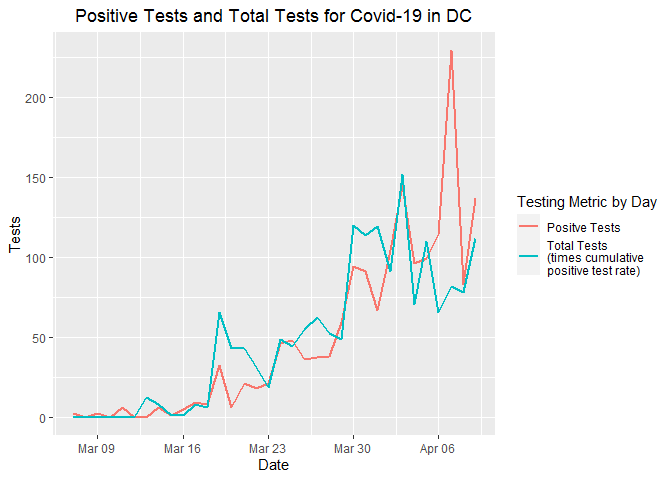
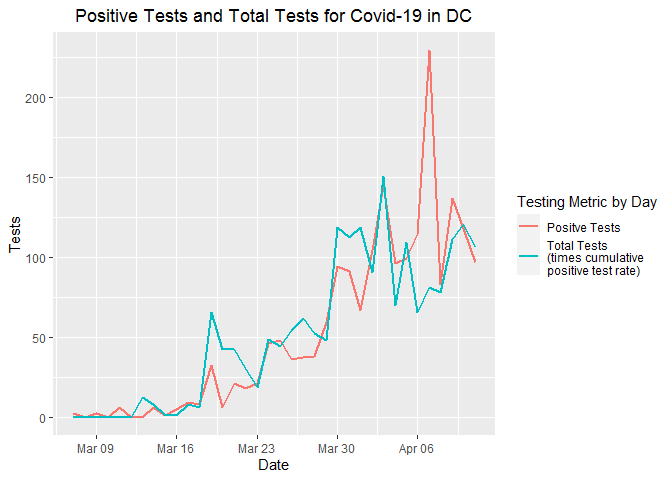
Update with 10-11 April data

diff --git a/Markdown/Testing_Results_Lag.md b/Markdown/Testing_Results_Lag.md
@@ -3,44 +3,44 @@ Lag in DC Test Results
 
 ### Postive Covid-19 Results in DC Lag by About Four Days
 
-10 April, 2020
+12 April, 2020
 
 The below plot shows the number of Positive Tests in red and the number
 of New Tests (multiplied by the positive test rate) in blue. Although
 the numbers tracked pretty well early on in testing, they have diverged
-recently. The correlation coefficient is currently 0.8044366.
+recently. The correlation coefficient is currently 0.8180627.
 
 ![](Testing_Results_Lag_files/figure-gfm/same_day-1.png)<!-- -->
 
 The below plot shows the number of Positive Tests in red compared to the
 number of New Tests four days ago (times the cumulative positive test
 rate) in blue. These numbers track much better, with a current
-correlation coefficient of 0.9247856.
+correlation coefficient of 0.9223203.
 
 ![](Testing_Results_Lag_files/figure-gfm/lag_4-1.png)<!-- -->
 
 Here is the correlation matrix for those interested in such a thing.
 
     ##             Test_New   Pos_New Test_Lag_1 Test_Lag_2 Test_Lag_3 Test_Lag_4
-    ## Test_New   1.0000000 0.8044366  0.7895463  0.8331691  0.7154886  0.7572864
-    ## Pos_New    0.8044366 1.0000000  0.7077803  0.8070302  0.7686444  0.9247856
-    ## Test_Lag_1 0.7895463 0.7077803  1.0000000  0.7951094  0.8356549  0.7248161
-    ## Test_Lag_2 0.8331691 0.8070302  0.7951094  1.0000000  0.7969671  0.8382720
-    ## Test_Lag_3 0.7154886 0.7686444  0.8356549  0.7969671  1.0000000  0.8002385
-    ## Test_Lag_4 0.7572864 0.9247856  0.7248161  0.8382720  0.8002385  1.0000000
-    ## Test_Lag_5 0.6663326 0.7581325  0.7454738  0.7298300  0.8422834  0.8134102
-    ## Test_Lag_6 0.7263917 0.8518991  0.6661792  0.7463855  0.7298315  0.8441130
-    ## Test_Lag_7 0.6626945 0.8262093  0.7203636  0.7017611  0.7824712  0.7885645
+    ## Test_New   1.0000000 0.8180627  0.8129040  0.8390431  0.7291386  0.7603697
+    ## Pos_New    0.8180627 1.0000000  0.7272474  0.8115591  0.7796381  0.9223203
+    ## Test_Lag_1 0.8129040 0.7272474  1.0000000  0.8104692  0.8365950  0.7309178
+    ## Test_Lag_2 0.8390431 0.8115591  0.8104692  1.0000000  0.8026037  0.8427214
+    ## Test_Lag_3 0.7291386 0.7796381  0.8365950  0.8026037  1.0000000  0.8065306
+    ## Test_Lag_4 0.7603697 0.9223203  0.7309178  0.8427214  0.8065306  1.0000000
+    ## Test_Lag_5 0.6954809 0.7738058  0.7595599  0.7308147  0.8440853  0.8070948
+    ## Test_Lag_6 0.7443372 0.8509438  0.6997910  0.7691501  0.7381403  0.8457218
+    ## Test_Lag_7 0.6976197 0.8129254  0.7371107  0.6818008  0.7567267  0.7415686
     ##            Test_Lag_5 Test_Lag_6 Test_Lag_7
-    ## Test_New    0.6663326  0.7263917  0.6626945
-    ## Pos_New     0.7581325  0.8518991  0.8262093
-    ## Test_Lag_1  0.7454738  0.6661792  0.7203636
-    ## Test_Lag_2  0.7298300  0.7463855  0.7017611
-    ## Test_Lag_3  0.8422834  0.7298315  0.7824712
-    ## Test_Lag_4  0.8134102  0.8441130  0.7885645
-    ## Test_Lag_5  1.0000000  0.8181544  0.8460233
-    ## Test_Lag_6  0.8181544  1.0000000  0.8688375
-    ## Test_Lag_7  0.8460233  0.8688375  1.0000000
+    ## Test_New    0.6954809  0.7443372  0.6976197
+    ## Pos_New     0.7738058  0.8509438  0.8129254
+    ## Test_Lag_1  0.7595599  0.6997910  0.7371107
+    ## Test_Lag_2  0.7308147  0.7691501  0.6818008
+    ## Test_Lag_3  0.8440853  0.7381403  0.7567267
+    ## Test_Lag_4  0.8070948  0.8457218  0.7415686
+    ## Test_Lag_5  1.0000000  0.8091787  0.8488025
+    ## Test_Lag_6  0.8091787  1.0000000  0.8209136
+    ## Test_Lag_7  0.8488025  0.8209136  1.0000000
 
 A couple notes. First, the test counts for 20 March were missing so I
 averaged the 19 March and 21 March test rate. In addition, for the
